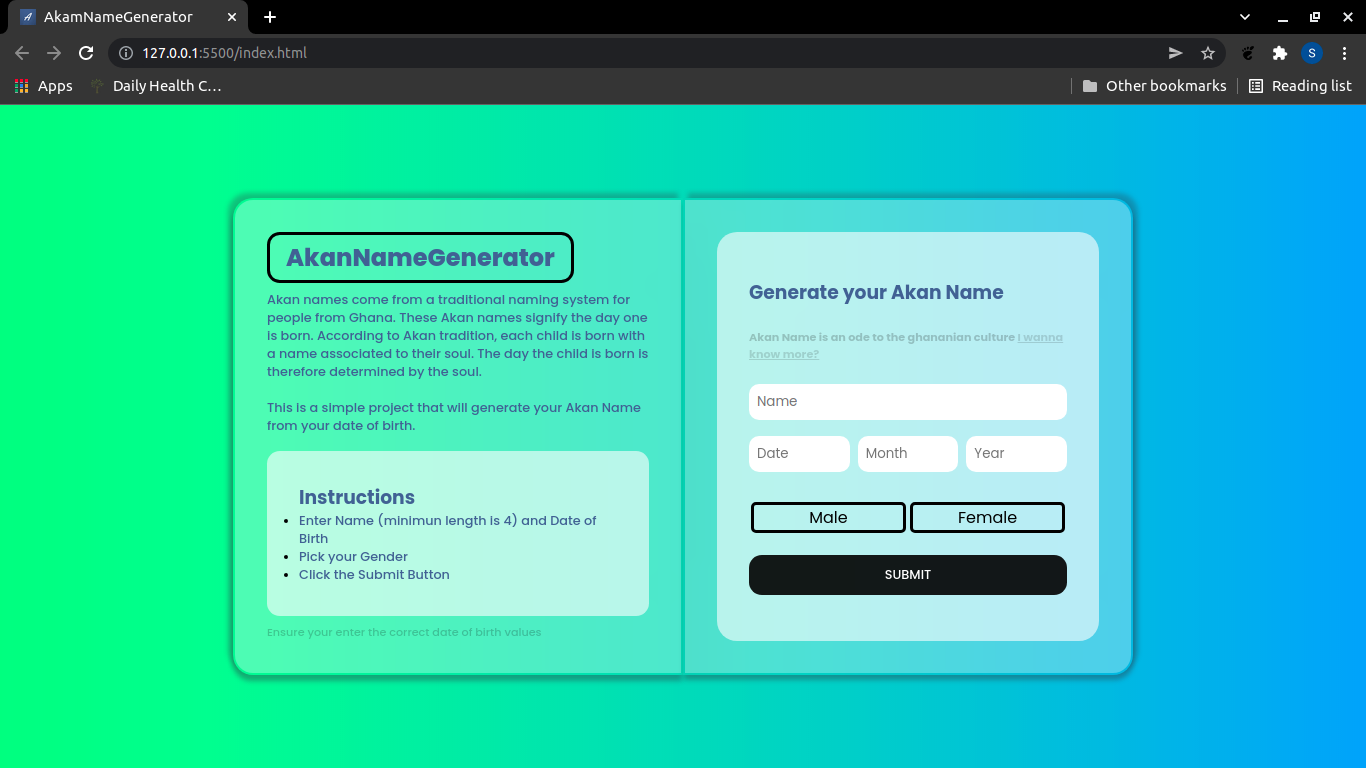
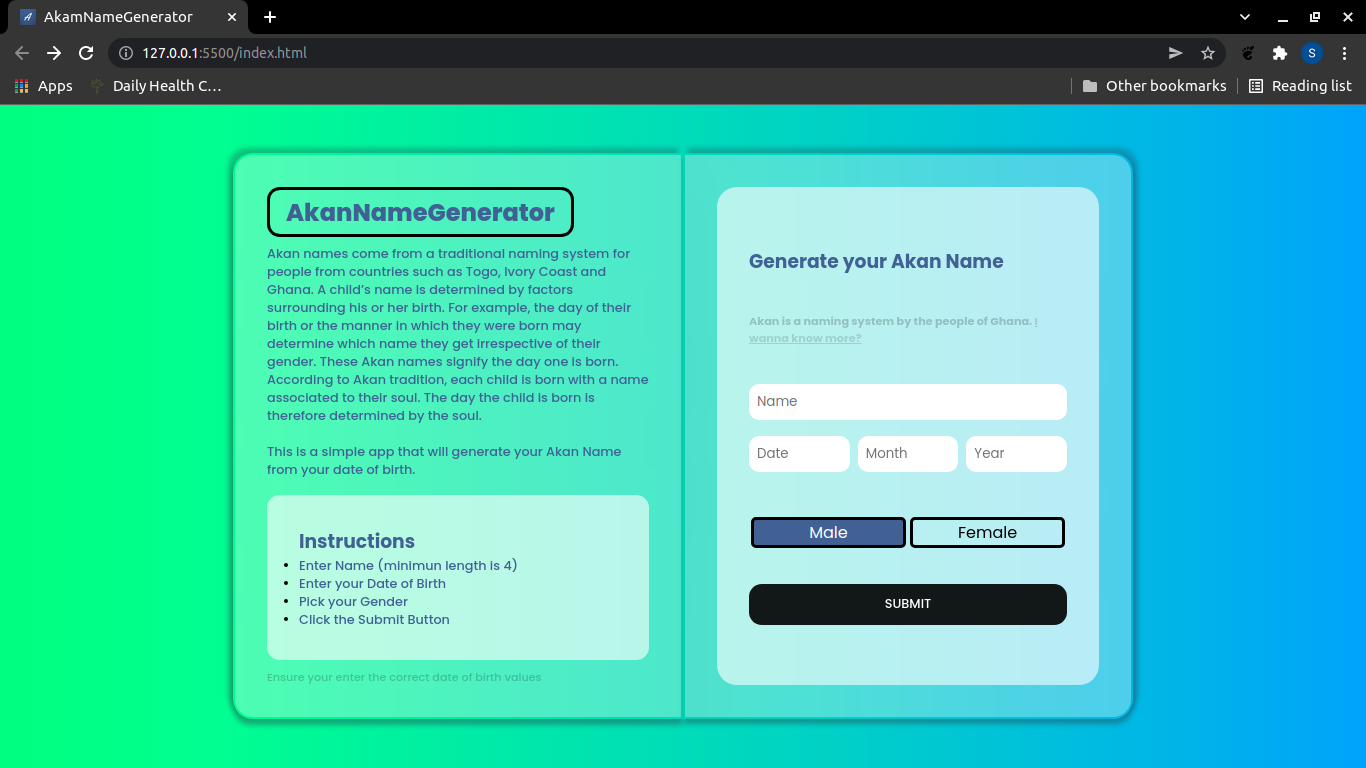
style updates

Changed region(s): [[0.1537, 0.1875, 0.8302, 0.9688]]

diff --git a/index.html b/index.html
@@ -19,19 +19,21 @@
             <div class="container">
                 <div class="sidebar">
                     <div class="heading">
-                        <!-- <img class="logo" src="/Images/Favicon.png" alt=""> -->
                         <h1>AkanNameGenerator</h1>
                     </div>
-                    <p class="message"> Akan names come from a traditional naming system for people from Ghana. These
-                        Akan names signify the day one is born. According to Akan tradition, each child is born with a
-                        name associated to their soul. The day the child is born is therefore determined by the soul.
+                    <p class="message"> Akan names come from a traditional naming system for people from countries such as Togo, Ivory Coast and Ghana.
+                        A child’s name is determined by factors surrounding his or her birth. For example, 
+                        the day of their birth or the manner in which they were born may determine which name they get irrespective of their gender.
+                        These Akan names signify the day one is born. According to Akan tradition, each child is born with a name associated to their soul. 
+                        The day the child is born is therefore determined by the soul.
                         <br><br>
-                        This is a simple project that will generate your Akan Name from your date of birth.
+                        This is a simple app that will generate your Akan Name from your date of birth.
                     </p>
                     <div class="instructions">
                         <h3 class="underline">Instructions</h3>
                         <ol class="instruction-items">
-                            <li>Enter Name (minimun length is 4) and Date of Birth</li>
+                            <li>Enter Name (minimun length is 4)</li>
+                            <li>Enter your Date of Birth</li>
                             <li>Pick your Gender</li>
                             <li>Click the Submit Button</li>
                         </ol>
@@ -41,8 +43,7 @@
                 <div class="mainbar">
                     <form id="form" autocomplete="off" class="form">
                         <h3 class="underline">Generate your Akan Name</h3>
-                        <h6 class="text side">Akan Name is an ode to the ghananian culture <a href="#">I wanna know
-                                more?</a></h6>
+                        <h6 class="text side">Akan is a naming system by the people of Ghana. <a target="_blank" href="https://en.wikipedia.org/wiki/Akan_names">I wanna know more?</a></h6>
                         <div class="inputs-text">
                             <input type="text" id="name" minlength="4" placeholder="Name" required>
                             <div class="date-of-birth">

diff --git a/style.css b/style.css
@@ -210,13 +210,15 @@ input[type='radio']:checked + label {
 
     .sidebar{
         border-radius: 0;
-        box-shadow: 0;
+        box-shadow: none;
         border: 0;
+        min-height: auto;
     }
 
     .mainbar{
         border-radius: 0;
-        box-shadow: 0;
+        box-shadow: none;
         border: 0;
+        height: auto;
     }
 }

diff --git a/README.md b/README.md
@@ -43,8 +43,9 @@ ___
 
 - Semantic HTML5 markup
 - CSS custom properties
-- Flexbox
-- Grid
+  - Flexbox
+  - Grid
+  - Media Queries (Mobile responsive)
 - Javascript (Vanilla)
   ```javascript
   //Example
